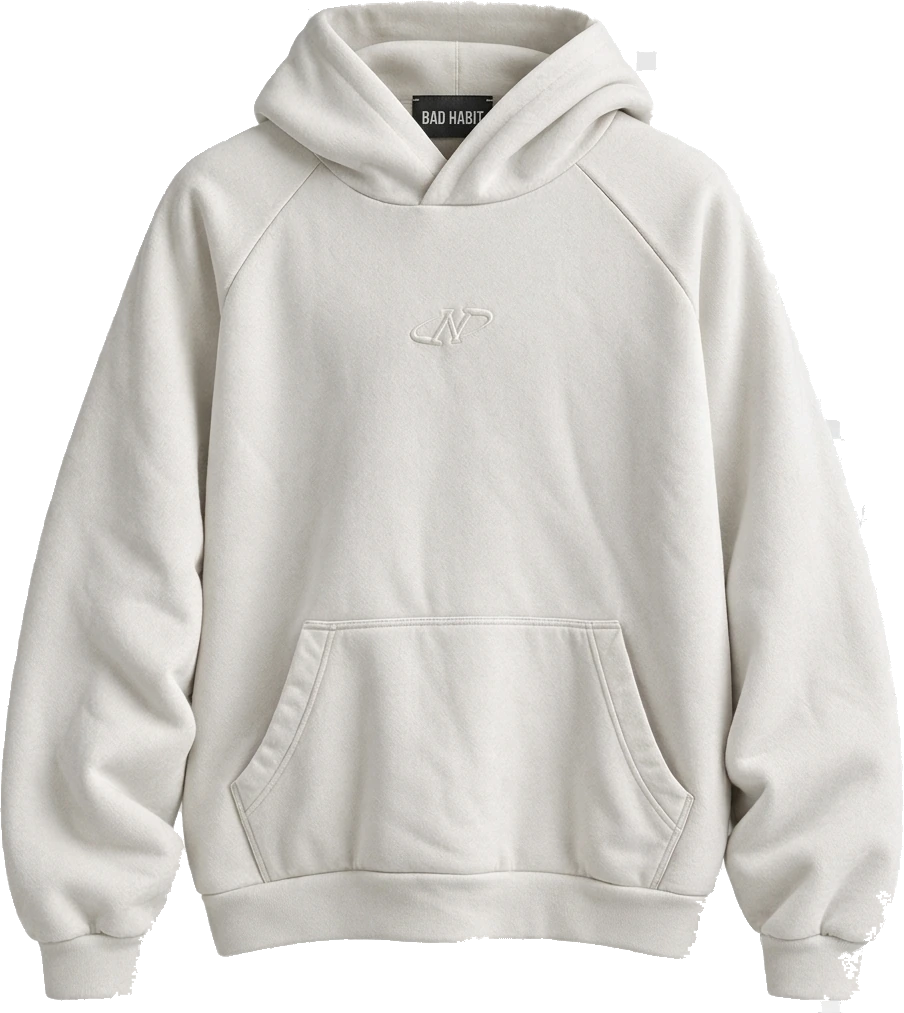
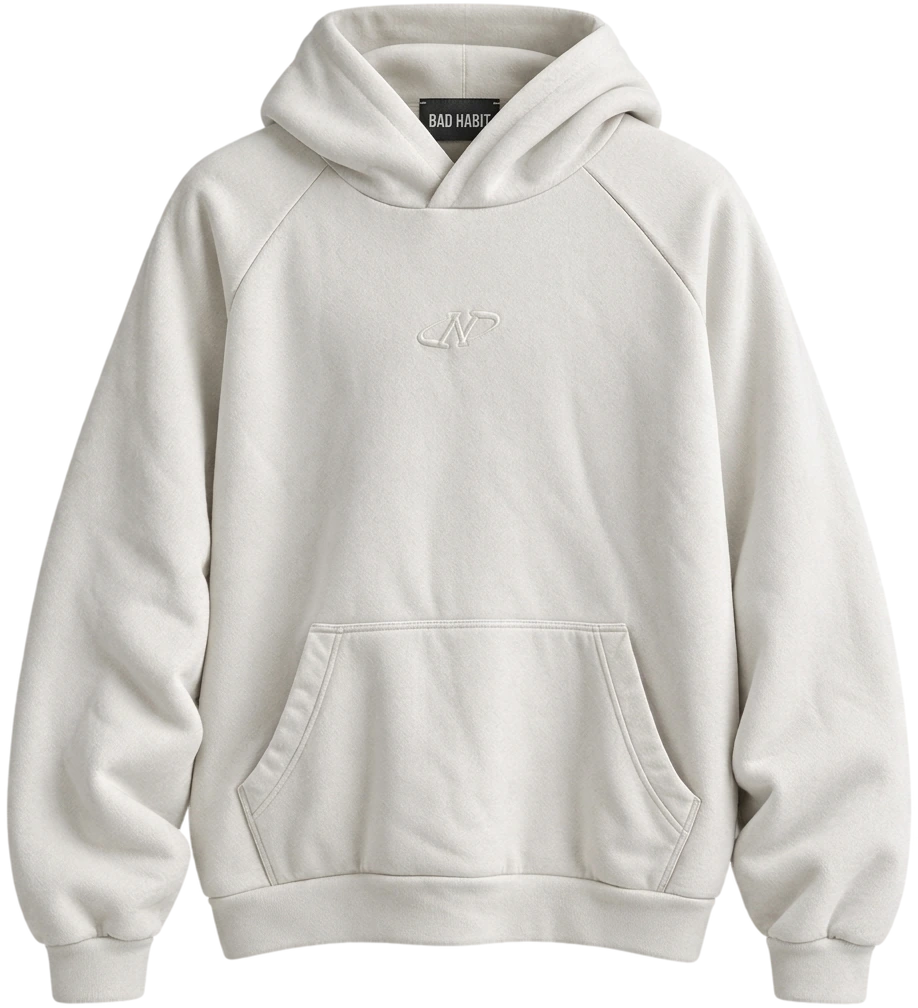
chore: update hoodie product imagery to v2 assets

diff --git a/src/data/products.ts b/src/data/products.ts
@@ -198,7 +198,7 @@ const RAW_PRODUCTS: Product[] = [
     color: 'Storm Blue',
     colorHex: '#343d49',
     colorGroup: 'sweatshirts',
-    image: '/assets/hoodies/storm_blue_front_only.webp',
+    image: '/assets/hoodies/storm_blue_front_only_v2.webp',
     frontAndBackImage: '/assets/hoodies/storm_blue_sweatshirt_front_and_back-7_b1259427.webp',
     detailImages: [
       '/assets/hoodies/storm_blue_sweatshirt_detail_catalog-9_d1dd07b0.webp',
@@ -214,7 +214,7 @@ const RAW_PRODUCTS: Product[] = [
     color: 'Onyx Black',
     colorHex: '#2a2a2d',
     colorGroup: 'hoodies',
-    image: '/assets/hoodies/onyx_hoodie_front_only.webp',
+    image: '/assets/hoodies/onyx_hoodie_front_only_v2.webp',
     frontAndBackImage: '/assets/hoodies/onyx_hoodie_front_and_back-3_e7aa1c79.webp',
     detailImages: [
       '/assets/hoodies/onyx_hoodie_detail_study-6_b6fd8409.webp',
@@ -230,7 +230,7 @@ const RAW_PRODUCTS: Product[] = [
     color: 'Ivory',
     colorHex: '#dfdbd5',
     colorGroup: 'sweatshirts',
-    image: '/assets/hoodies/ivory_sweatshirt_front_only.webp',
+    image: '/assets/hoodies/ivory_sweatshirt_front_only_v2.webp',
     frontAndBackImage: '/assets/hoodies/bad_habit_ivory_sweatshirt_showcase-6_431d360f.webp',
     detailImages: [
       '/assets/hoodies/ivory_sweatshirt_detail_poster-5_d4199c93.webp',
@@ -246,7 +246,7 @@ const RAW_PRODUCTS: Product[] = [
     color: 'Dusty Rose',
     colorHex: '#cabbbc',
     colorGroup: 'hoodies',
-    image: '/assets/hoodies/dusty_rose_hoodie_front_only.webp',
+    image: '/assets/hoodies/dusty_rose_hoodie_front_only_v2.webp',
     frontAndBackImage: '/assets/hoodies/dusty_rose_hoodie_front_and_back-1_6413d979.webp',
     detailImages: [
       '/assets/hoodies/dusty_rose_hoodie_detail_showcase-3_1e9d1dee.webp',
@@ -262,7 +262,7 @@ const RAW_PRODUCTS: Product[] = [
     color: 'Off-White',
     colorHex: '#e2e1e1',
     colorGroup: 'hoodies',
-    image: '/assets/hoodies/off_white_hoodie_front_only.webp',
+    image: '/assets/hoodies/off_white_hoodie_front_only_v2.webp',
     detailImages: [
       '/assets/hoodies/off_white_hoodie_details_03.webp',
     ],
@@ -289,7 +289,7 @@ const RAW_PRODUCTS: Product[] = [
     color: 'Slate Grey',
     colorHex: '#6f7379',
     colorGroup: 'sweatshirts',
-    image: '/assets/hoodies/slate_grey_sweatshirt_front.webp',
+    image: '/assets/hoodies/slate_grey_sweatshirt_front_v2.webp',
     price: 'PKR 4,499',
     fabric: 'Pigment-dyed heavyweight loopback cotton with sun-faded mineral wash, distressed ribbed crew collar, dropped shoulders, and structured cuffs',
   },
@@ -301,7 +301,7 @@ const RAW_PRODUCTS: Product[] = [
     color: 'Washed Umber',
     colorHex: '#5d585b',
     colorGroup: 'hoodies',
-    image: '/assets/hoodies/washed_umber_hoodie_front.webp',
+    image: '/assets/hoodies/washed_umber_hoodie_front_v2.webp',
     price: 'PKR 4,499',
     fabric: '480 GSM enzyme-washed brushed cotton fleece in deep umber with cord-free structured hood, dropped shoulder seams, and deep kangaroo pocket',
   },
@@ -313,7 +313,7 @@ const RAW_PRODUCTS: Product[] = [
     color: 'Oatmeal',
     colorHex: '#dcd8d5',
     colorGroup: 'hoodies',
-    image: '/assets/hoodies/oatmeal_hoodie_front.webp',
+    image: '/assets/hoodies/oatmeal_hoodie_front_v2.webp',
     price: 'PKR 4,499',
     fabric: '500 GSM heavyweight brushed fleece in warm oatmeal with tonal chest emblem embroidery, cross-over hood, raglan sleeves, and kangaroo pocket',
   },
@@ -489,10 +489,10 @@ const GARMENT_FRAME_BY_ID: Record<string, ShirtCardFrame> = {
     desktopCardImgClass: 'w-[96%]',
   },
   'BH-H03': {
-    desktopCardImgClass: 'w-[108%] max-w-none',
+    desktopCardImgClass: 'w-[114%] max-w-none',
     desktopDetailPaddingClass: 'p-0',
-    mobileGridImgClass: 'w-[106%] max-w-none',
-    mobileGridPaddingClass: 'px-1 py-2',
+    mobileGridImgClass: 'w-[112%] max-w-none',
+    mobileGridPaddingClass: 'px-0.5 py-2',
     mobileDetailPaddingClass: 'p-0',
   },
   'BH-H04': {

diff --git a/api/index.ts b/api/index.ts
@@ -183,15 +183,15 @@ const PRODUCT_IMAGE_MAP: Record<string, { image: string; category: string }> = {
   'BH-T09': { image: '/assets/trousers_v2/deep_charcoal_front_only.webp', category: 'Trousers' },
   'BH-T05': { image: '/assets/trousers_v2/ash_baggy_front_only.webp', category: 'Trousers' },
   'BH-T11': { image: '/assets/trousers_v2/chocolate_balloon_front_only.webp', category: 'Trousers' },
-  'BH-H01': { image: '/assets/hoodies/storm_blue_front_only.webp', category: 'Hoodies' },
-  'BH-H02': { image: '/assets/hoodies/onyx_hoodie_front_only.webp', category: 'Hoodies' },
-  'BH-H03': { image: '/assets/hoodies/ivory_sweatshirt_front_only.webp', category: 'Hoodies' },
-  'BH-H04': { image: '/assets/hoodies/dusty_rose_hoodie_front_only.webp', category: 'Hoodies' },
-  'BH-H05': { image: '/assets/hoodies/off_white_hoodie_front_only.webp', category: 'Hoodies' },
+  'BH-H01': { image: '/assets/hoodies/storm_blue_front_only_v2.webp', category: 'Hoodies' },
+  'BH-H02': { image: '/assets/hoodies/onyx_hoodie_front_only_v2.webp', category: 'Hoodies' },
+  'BH-H03': { image: '/assets/hoodies/ivory_sweatshirt_front_only_v2.webp', category: 'Hoodies' },
+  'BH-H04': { image: '/assets/hoodies/dusty_rose_hoodie_front_only_v2.webp', category: 'Hoodies' },
+  'BH-H05': { image: '/assets/hoodies/off_white_hoodie_front_only_v2.webp', category: 'Hoodies' },
   'BH-H06': { image: '/assets/hoodies/charcoal_raglan_hoodie_front_v2.webp', category: 'Hoodies' },
-  'BH-H07': { image: '/assets/hoodies/slate_grey_sweatshirt_front.webp', category: 'Hoodies' },
-  'BH-H08': { image: '/assets/hoodies/washed_umber_hoodie_front.webp', category: 'Hoodies' },
-  'BH-H09': { image: '/assets/hoodies/oatmeal_hoodie_front.webp', category: 'Hoodies' },
+  'BH-H07': { image: '/assets/hoodies/slate_grey_sweatshirt_front_v2.webp', category: 'Hoodies' },
+  'BH-H08': { image: '/assets/hoodies/washed_umber_hoodie_front_v2.webp', category: 'Hoodies' },
+  'BH-H09': { image: '/assets/hoodies/oatmeal_hoodie_front_v2.webp', category: 'Hoodies' },
   'BH-S05': { image: '/assets/aistudio/MAGNUM_BOXY_FRONT__36e853c5.png', category: 'Shirts' },
   'BH-S06': { image: '/assets/aistudio/ROUGH_BOXY_FRONT__a3520722.png', category: 'Shirts' },
   'BH-S04': { image: '/assets/aistudio/MAROON_BOXY_FRONT__dce5cb1c.png', category: 'Shirts' },
